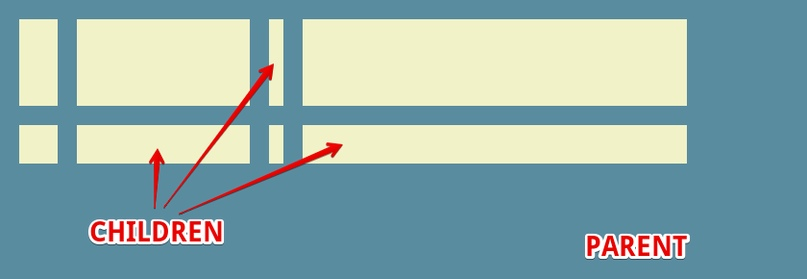
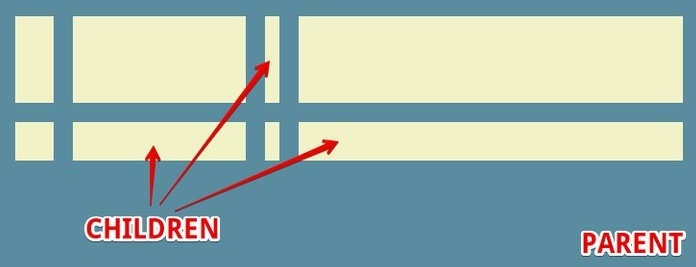
feat: change styles, add pictures

Changed region(s): [[0.0, 0.03, 0.9957, 0.9288], [0.7241, 0.809, 0.9957, 0.9888]]

diff --git a/index.html b/index.html
@@ -11,6 +11,8 @@
 	<link rel="stylesheet" href="dist/reveal.css">
 	<link rel="stylesheet" href="custom/styles/style.css">
 
+	<link href="https://fonts.googleapis.com/css2?family=Dancing+Script&display=swap" rel="stylesheet">
+
 	<!-- CSS only -->
 	<link rel="stylesheet" href="https://stackpath.bootstrapcdn.com/bootstrap/4.5.0/css/bootstrap.min.css"
 		integrity="sha384-9aIt2nRpC12Uk9gS9baDl411NQApFmC26EwAOH8WgZl5MYYxFfc+NcPb1dKGj7Sk" crossorigin="anonymous">
@@ -25,27 +27,39 @@
 		<div class="slides">
 
 			<section>
-				<section data-background-image="custom\img\grid.jpg">
-					<div class="color-block">
-						<h1>CSS Grid Layout</h1>
+				<section>
+					<div class="color-block-custom">
 						<br>
-						<h3>Starojtova Agnia</h3>
+						<h2 class='cursive'>CSS Grid Layout</h2>
+						<hr size='5' class="custom-hr">
+						<h3>Starovojtova Agnia</h3>
 						<br>
 					</div>
-					<br>
 					<br>
 
-					<div class="color-block title-first-slide color">
-						<ul>
-							<li>Github: agnusha</li>
-							<li>Telegram: agnusha</li>
-							<li>E-mail: agnia2000@inbox.ru</li>
-						</ul>
+					<div class="flex flex-space-between">
+						<div>
+							<img class="no-margin handle" width="220" src="custom/img/giphy.gif">
+						</div>
+						<div>
+							<div class="color-block-custom-second title-first-slide color">
+								<ul>
+									<li><img class="" width="20" src="custom/img/github-image.png"> Github: agnusha
+									</li>
+									<li><img class="" width="20" src="custom/img/telegram.png"> Telegram: agnusha </li>
+									<li><img class="" width="20" src="custom/img/email.png"> E-mail: agnia2000@inbox.ru
+									</li>
+								</ul>
+							</div>
+						</div>
 					</div>
+
+
+
 				</section>
 				<section>
-					CSS Grid Layout is the most powerful layout system available in CSS.
-					<br>
+					<div class="cursive color-block">CSS Grid Layout is the most powerful layout system available in
+						CSS.</div>
 					<br>
 					<ul class="font-smaller">
 						<li>2-dimensional system</li>
@@ -53,12 +67,12 @@
 					</ul>
 					<br>
 					<br>
-					<div class="flex flex-space-around w-120">
+					<div class="flex flex-space-around">
 						<div>
-							<img class="slide-1-2-img" src="custom/img/gridFlexbox.jpg">
+							<img class="slide-1-2-img" width="350" src="custom/img/gridFlexbox.jpg">
 						</div>
 						<div>
-							<img class="slide-1-2-img" src="custom/img/parentChild.jpg">
+							<img class="slide-1-2-img" width="550" src="custom/img/parentChild.jpg">
 						</div>
 					</div>
 				</section>
@@ -68,15 +82,19 @@
 				<p>
 					<div class="flex flex-direction-column custom-height">
 						<div class="flex flex-space-around">
-							<div class="layout-problems flex flex-center color-block">Tables</div>
-							<div class="layout-problems flex flex-center color-block">Floats</div>
-							<div class="layout-problems flex flex-center color-block">Positioning</div>
+							<div class="layout-problems flex fragment fade-in flex-center color-block">Tables</div>
+							<div class="layout-problems flex fragment fade-in flex-center color-block">Floats</div>
+							<div class="layout-problems flex fragment fade-in flex-center color-block">Positioning</div>
 						</div>
 
 						<div class="flex flex-space-around">
-							<div class="layout-problems flex flex-center color-block">Inline-block</div>
-							<div class="layout-problems flex flex-center color-block">Flexbox</div>
-							<div class="layout-problems flex flex-center color-block">Grid</div>
+							<div class="layout-problems flex fragment fade-in  flex-center color-block">Inline-block
+							</div>
+							<div class="layout-problems flex fragment fade-in flex-center color-block">Flexbox</div>
+							<div
+								class="layout-problems  fragment fade-in  layout-problems-custom flex flex-center color-block">
+								Grid
+							</div>
 						</div>
 					</div>
 				</p>
@@ -232,13 +250,14 @@
 				<section>
 					<h2>Example</h2>
 					<div class="img-single-container">
-						<pre><code><div class="wrapper">
-						<div class="box a">A</div>
-						<div class="box b">B</div>
-						<div class="box c">C</div>
-						<div class="box d">D</div>
-					  </div>
-					</code></pre>
+						<pre><code>
+<div class="wrapper">
+	<div class="box a">A</div>
+	<div class="box b">B</div>
+	<div class="box c">C</div>
+	<div class="box d">D</div>
+</div>
+</code></pre>
 						<img src="custom/img/example.png" alt="example">
 				</section>
 				<section>

diff --git a/custom/styles/style.css b/custom/styles/style.css
@@ -2,9 +2,34 @@
     display: flex;
 }
 
+ul {
+    list-style: square !important;
+}
+
+.header-text {}
+
+.no-margin {
+    margin: 0px !important;
+}
+
+.handle {
+    position: relative;
+    top: -40px;
+    left: 30px;
+}
+
+.reveal ul li img {
+    margin: 10px 0;
+}
+
 .w-110 {
     width: 110%;
 }
+
+img {
+    height: auto !important;
+}
+
 
 .img-vocabulary {
     width: 90%;
@@ -26,19 +51,36 @@ code {
     white-space: pre-line;
 }
 
+.flex-space-between {
+    justify-content: space-between;
+
+}
+
 .flex-space-around {
     justify-content: space-around;
 }
 
 .flex-direction-column {
     flex-direction: column;
-    height: 400px;
+    height: 350px;
     justify-content: space-between;
 }
 
 .flex-center {
     justify-content: center;
     align-items: center;
+}
+
+.cursive {
+    font-family: 'Dancing Script', cursive !important;
+}
+
+.custom-hr {
+    width: 70%;
+    border: none;
+    color: rgb(51, 9, 9);
+    background-color: rgb(51, 9, 9);
+    height: 2px;
 }
 
 .w-120 {
@@ -53,10 +95,22 @@ code {
     height: 250px;
 }
 
+.color-block-custom {
+    background-image: linear-gradient(120deg, #f6d365 0%, #fda085 100%);
+    border-radius: 8px;
+    box-shadow: 40px rgba(0, 0, 0, 0.5);
+}
+
+.color-block-custom-second {
+    background-image: linear-gradient(to top, #a18cd1 0%, #fbc2eb 100%);
+    border-radius: 8px;
+    box-shadow: 40px rgba(0, 0, 0, 0.5);
+    padding: 20px 0px;
+}
+
 .color-block {
-    background-image: linear-gradient(to top, rgb(67, 83, 252), rgb(111, 114, 247), rgb(120, 114, 239), rgb(130, 113, 231), rgb(139, 112, 223), rgb(149, 111, 215), rgb(158, 111, 208), rgb(168, 110, 200));
+    background-image: linear-gradient(to top, #a18cd1 0%, #fbc2eb 100%);
     border-radius: 5px;
-    border: 2px solid rgb(4, 29, 99);
     box-shadow: 40px rgba(0, 0, 0, 0.5);
 }
 
@@ -64,14 +118,16 @@ code {
     font-size: 24px;
     margin-left: auto;
     width: 500px;
-    background-image: linear-gradient(to bottom, rgb(67, 83, 252), rgb(111, 114, 247), rgb(120, 114, 239), rgb(130, 113, 231), rgb(139, 112, 223), rgb(149, 111, 215), rgb(158, 111, 208), rgb(168, 110, 200));
 }
 
 .layout-problems {
-
     height: 150px;
     width: 250px;
-    background-image: linear-gradient(to bottom, rgb(67, 83, 252), rgb(111, 114, 247), rgb(120, 114, 239), rgb(130, 113, 231), rgb(139, 112, 223), rgb(149, 111, 215), rgb(158, 111, 208), rgb(168, 110, 200));
+    background-image: linear-gradient(to top, #c79081 0%, #dfa579 100%);
+}
+
+.layout-problems-custom {
+    background-image: linear-gradient(to right, #92fe9d 0%, #00c9ff 100%);
 }
 
 
